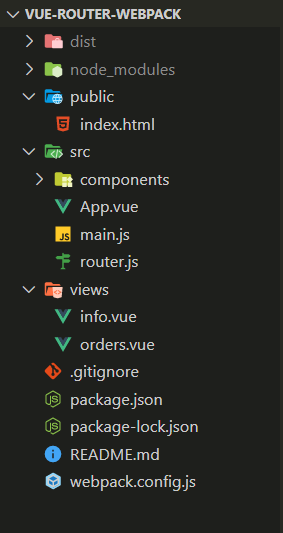
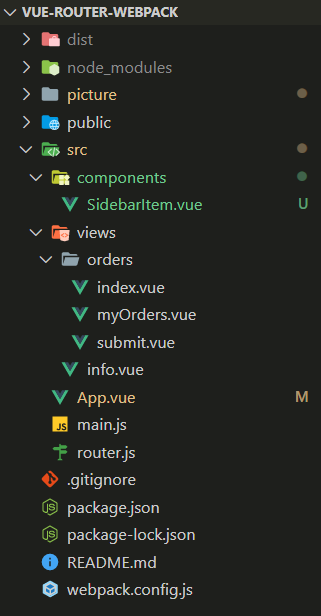
update README

diff --git a/src/App.vue b/src/App.vue
@@ -35,7 +35,7 @@
 
 <script>
 import { routes } from './router'   // {}指定需要引用的模块
-import SidebarItem from './views/SidebarItem.vue'
+import SidebarItem from './components/SidebarItem.vue'
 
 export default {
     name: 'App',
@@ -44,13 +44,8 @@ export default {
     },
     data() {
         return {
-            isCollapse: true,
+            isCollapse: false,
             routes
-        }
-    },
-    methods: {
-        test(){
-            this.$router.push('my-orders');
         }
     }
 }
@@ -75,10 +70,10 @@ h3 {
 <style>     /* 解决导航栏折叠子菜单文字不隐藏的bug，必须覆盖全局样式 */
 /* 隐藏文字 */
 .el-menu--collapse .el-submenu__title span{
-display: none;
+    display: none;
 }
 /* 隐藏 > , 默认该i元素标签无hash值，因此scoped无效，必须使用全局样式覆盖 */
 .el-menu--collapse .el-submenu__title .el-submenu__icon-arrow{
-display: none;
+    display: none;
 }
 </style>

diff --git a/src/router.js b/src/router.js
@@ -14,14 +14,14 @@ export const routes = [
     },
     { 
         path: '/orders',        // 以 / 开头的嵌套路径会被当作根路径
-        component: () => import('./views/orders/index.vue'),
+        component: () => import('./views/orders/index.vue'),    // 可写成{render: (e) => e("router-view")}，避免新建空router-view文件
         meta: { 
             title: '订单管理',
             icon: 'el-icon-s-order'
         },
         children: [
             {
-                path: 'my-orders',      // 子路由不要加/
+                path: 'my-orders',      // 子路由不要加 /
                 component: () => import('./views/orders/myOrders.vue'),
                 meta: { 
                     title: '我的订单',

diff --git a/src/components/SidebarItem.vue b/src/components/SidebarItem.vue
@@ -29,7 +29,7 @@ export default {
       type: Object,
       required: true
     },
-    basePath: {
+    basePath: {     //从父组件一直拼接下来的基路径
       type: String,
       default: ''
     }

diff --git a/README.md b/README.md
@@ -1,4 +1,4 @@
-# Vue模块化开发
+# Vue-Router-Webpack 模块化开发
 
 ### 项目目的
 
@@ -6,16 +6,20 @@
 
 
 
-### 项目模块
+### 项目功能
+
+1. 导航栏（折叠）
+2. 面包屑
+3. 正文区域
+
+
+
+### 项目依赖
 
 1. Vue
 2. Vue Router
 3. Element-UI
 4. webpack
-
-
-
-### 安装项目依赖
 
 ```shell
 npm init
@@ -80,6 +84,8 @@ new Vue({
 
 ### router.js
 
+以 `/` 开头的嵌套路径会被当作根路径，因此子路由的path无需加 `/` 
+
 ```javascript
 import Vue from 'vue'
 import VueRouter from 'vue-router'
@@ -87,8 +93,40 @@ import VueRouter from 'vue-router'
 Vue.use(VueRouter)
 
 export const routes = [
-    { path: '/info', name: '个人中心', icon: 'el-icon-user-solid', component: () => import('../views/info.vue') },
-    { path: '/orders', name: '我的订单', icon: 'el-icon-s-order', component: () => import('../views/orders.vue') }
+    { 
+        path: '/info',
+        component: () => import('./views/info.vue'),
+        meta: { 
+            title: '个人中心',
+            icon: 'el-icon-user-solid'
+        }
+    },
+    { 
+        path: '/orders',        // 以 / 开头的嵌套路径会被当作根路径
+        component: () => import('./views/orders/index.vue'),    // 可写成{render: (e) => e("router-view")}，避免新建空router-view文件
+        meta: { 
+            title: '订单管理',
+            icon: 'el-icon-s-order'
+        },
+        children: [
+            {
+                path: 'my-orders',      // 子路由不要加 /
+                component: () => import('./views/orders/myOrders.vue'),
+                meta: { 
+                    title: '我的订单',
+                    icon: 'el-icon-s-order'
+                }
+            },
+            {
+                path: 'submit',
+                component: () => import('./views/orders/submit.vue'),
+                meta: { 
+                    title: '提交订单',
+                    icon: 'el-icon-s-order'
+                }
+            }
+        ]
+    }
 ]
 
 const router = new VueRouter({
@@ -172,24 +210,37 @@ module.exports = {
 
 `<style scoped>`  scoped 范围css 防止全局污染
 
+增加了一个全局样式，解决导航栏折叠时子菜单文字不隐藏的bug
+
 ```vue
 <template>
     <div id="app">
         <el-row class="tac">
             <el-col :span="4">
+                <el-radio-group v-model="isCollapse">
+                    <el-radio-button :label="false">展开</el-radio-button>
+                    <el-radio-button :label="true">收起</el-radio-button>
+                </el-radio-group>
                 <h3>导航栏</h3>
                 <el-menu
                 :default-active="this.$route.path"
-                class="el-menu-vertical-demo"
+                :collapse="isCollapse"
                 router
                 >
-                <el-menu-item v-for="item in routes" :key="item.path" :index="item.path">
-                    <i :class="item.icon"></i>
-                    <span slot="title">{{item.name}}</span>
-                </el-menu-item>
+                    <sidebar-item v-for="route in routes" :key="route.path" :item="route" />
                 </el-menu>
             </el-col>
             <el-col :span="16">
+                <el-breadcrumb separator="/">
+                    <el-breadcrumb-item :to="{ path: '/' }">首页</el-breadcrumb-item>
+                    <el-breadcrumb-item 
+                    v-for="item in this.$route.matched" 
+                    :key="item.path" 
+                    :to="item.path"
+                    >
+                        {{item.meta.title}}
+                    </el-breadcrumb-item>
+                </el-breadcrumb>
                 <h3>正文</h3>
                 <router-view />
             </el-col>
@@ -199,10 +250,16 @@ module.exports = {
 
 <script>
 import { routes } from './router'   // {}指定需要引用的模块
+import SidebarItem from './components/SidebarItem.vue'
+
 export default {
     name: 'App',
-    data(){
+    components: { 
+        SidebarItem
+    },
+    data() {
         return {
+            isCollapse: true,
             routes
         }
     }
@@ -213,7 +270,83 @@ export default {
 h3 {
     text-align: center;
 }
+.el-breadcrumb {
+    font-size: 1.17em;
+    margin: 21.92px;
+}
+.el-radio-group {
+    width:100%;
+    display: flex;
+    justify-content: center;
+    margin-top: 13px;
+}
 </style>
+
+<style>     /* 解决导航栏折叠子菜单文字不隐藏的bug，必须覆盖全局样式 */
+/* 隐藏文字 */
+.el-menu--collapse .el-submenu__title span{
+	display: none;
+}
+/* 隐藏 > , 默认该i元素标签无hash值，因此scoped无效，必须使用全局样式覆盖 */
+.el-menu--collapse .el-submenu__title .el-submenu__icon-arrow{
+	display: none;
+}
+</style>
+```
+
+
+
+### SidebarItem.vue(导航栏组件)
+
+组件自调用实现嵌套导航栏
+
+传递basePath记录父路由路径，与子路由拼接成完整路径
+
+```vue
+<template>
+  <!-- 隐藏不需要显示的路由 -->
+  <div v-if="!item.hidden">
+    <!-- 如果没有子路由 -->
+    <template v-if="!item.children">
+        <el-menu-item :key="item.path" :index="resolvePath(item.path)">
+          <i :class="item.meta.icon"></i>
+          <span slot="title">{{item.meta.title}}</span>
+        </el-menu-item>
+    </template>
+    <!-- 如果有子路由，渲染子菜单 -->
+    <el-submenu v-else :index="resolvePath(item.path)">
+      <template slot="title">
+          <i :class="item.meta.icon"></i>
+          <span slot="title">{{item.meta.title}}</span>
+      </template>
+      <sidebar-item v-for="child in item.children" :key="child.path" :item="child" :basePath="resolvePath(item.path)" />
+    </el-submenu>
+  </div>
+</template>
+
+<script>
+import path from 'path'
+
+export default {
+  name: 'SidebarItem',    //组件自调用，必须有name属性
+  props: {                //接收父组件传参
+    item: {
+      type: Object,
+      required: true
+    },
+    basePath: {     //从父组件一直拼接下来的基路径
+      type: String,
+      default: ''
+    }
+  },
+  methods: {
+    //拼接父子路径
+    resolvePath(routePath) {
+      return path.resolve(this.basePath,routePath)
+    }
+  }
+}
+</script>
 ```
 
 
